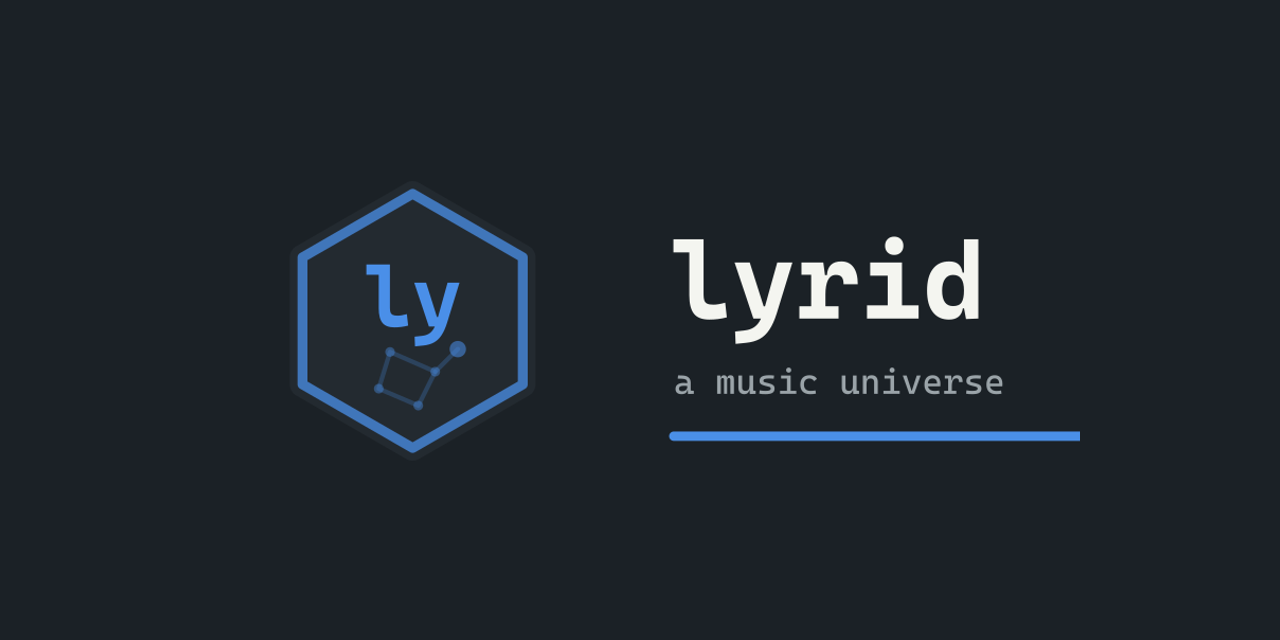
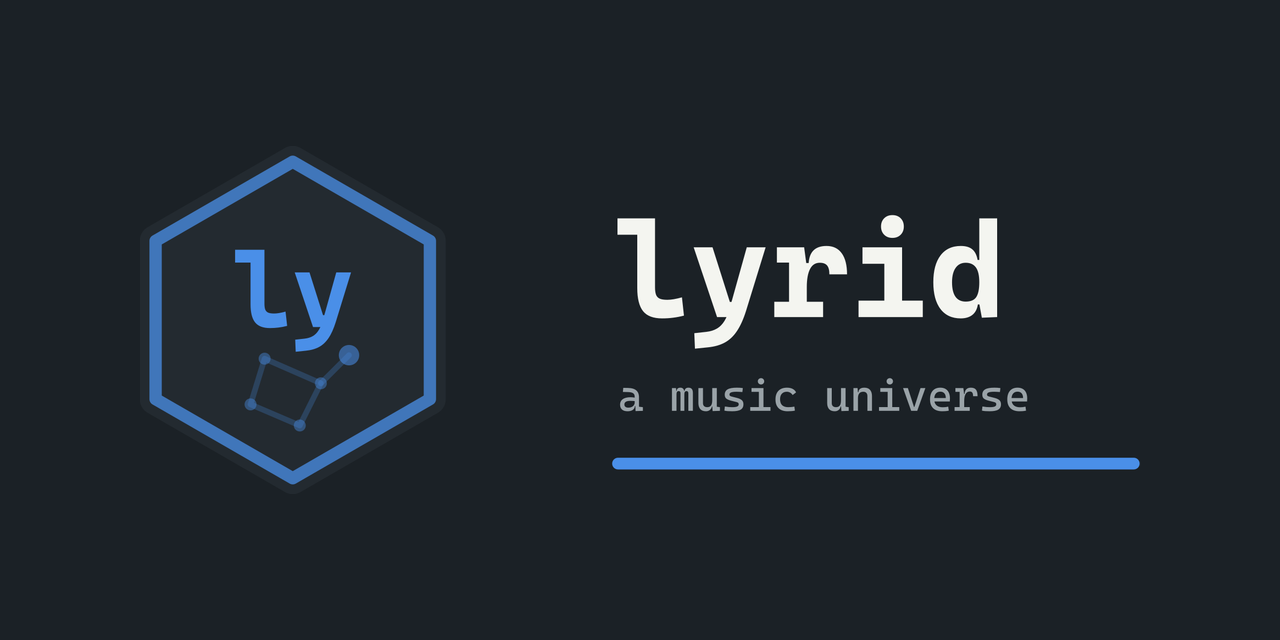
fix(brand): centre the social preview on its plate without cutting the artwork
The generator cut the banner at a fixed width, and on this machine's fonts
the underline ran past it and was sliced off at the edge. Lay the banner on
the plate colour, trim to the artwork and fit it inside a 140 px margin, as
kasl-server does; a test now reads the picture and requires equal margins.

diff --git a/tests/brand_assets.rs b/tests/brand_assets.rs
@@ -175,3 +175,55 @@ fn the_spa_offers_the_icons_it_points_at() {
         );
     }
 }
+
+#[test]
+fn the_social_preview_is_the_banner_on_its_plate() {
+    // GitHub's social preview and the og:image the sky unfurls into.
+    let image = image::load_from_memory_with_format(&read("assets/social-preview.png"), image::ImageFormat::Png)
+        .expect("the social preview is a PNG")
+        .to_rgba8();
+    assert_eq!(image.dimensions(), (1280, 640), "GitHub asks for a 1280x640 social preview");
+    assert_eq!(read("web/public/social-preview.png"), read("assets/social-preview.png"));
+
+    // Laid on the plate colour, so no seam of a rounded banner shows at the
+    // edges. The colour is read from the banner rather than written here.
+    let plate = banner_plate();
+    for (x, y) in [(0, 0), (1279, 0), (0, 639), (1279, 639), (640, 20), (640, 619)] {
+        assert!(close_to(image.get_pixel(x, y).0, plate), "the social preview's edge at {x},{y} is not the plate");
+    }
+
+    // And centred, with nothing cut off. The banner is a wide plate with its
+    // artwork on the left: until v0.19 it was cut at a fixed width, and on
+    // this machine's fonts the underline beneath "a music universe" ran past
+    // that line and was sliced off at the picture's edge. A sliced artwork
+    // touches its box on that side, so equal margins catch both defects.
+    let drawn: Vec<(u32, u32)> = image
+        .enumerate_pixels()
+        .filter(|(_, _, rgba)| !close_to(rgba.0, plate))
+        .map(|(x, y, _)| (x, y))
+        .collect();
+    let left = drawn.iter().map(|p| p.0).min().expect("the preview draws something");
+    let right = drawn.iter().map(|p| p.0).max().expect("the preview draws something");
+    let top = drawn.iter().map(|p| p.1).min().expect("the preview draws something");
+    let bottom = drawn.iter().map(|p| p.1).max().expect("the preview draws something");
+    let (margin_right, margin_bottom) = (1279 - right, 639 - bottom);
+    assert!(
+        left.abs_diff(margin_right) <= 8 && top.abs_diff(margin_bottom) <= 8,
+        "the artwork is off-centre: margins left {left}, right {margin_right}, top {top}, bottom {margin_bottom}"
+    );
+    // Large enough to read in a feed, and clear of the edges GitHub crops.
+    assert!(right - left >= 800, "the artwork is only {}px wide", right - left);
+    assert!(left >= 64 && top >= 64, "the artwork runs into the edge GitHub crops");
+}
+
+/// The colour of the plate the banner is drawn on: its first fill.
+fn banner_plate() -> [u8; 3] {
+    let svg = String::from_utf8(read("assets/banner.svg")).expect("the banner is UTF-8");
+    let hex = svg.split("fill=\"#").nth(1).map(|rest| &rest[..6]).expect("the banner paints a plate");
+    let channel = |at: usize| u8::from_str_radix(&hex[at..at + 2], 16).expect("a hex colour");
+    [channel(0), channel(2), channel(4)]
+}
+
+fn close_to(rgba: [u8; 4], rgb: [u8; 3]) -> bool {
+    rgba.iter().zip(rgb).all(|(have, want)| have.abs_diff(want) <= 6)
+}
